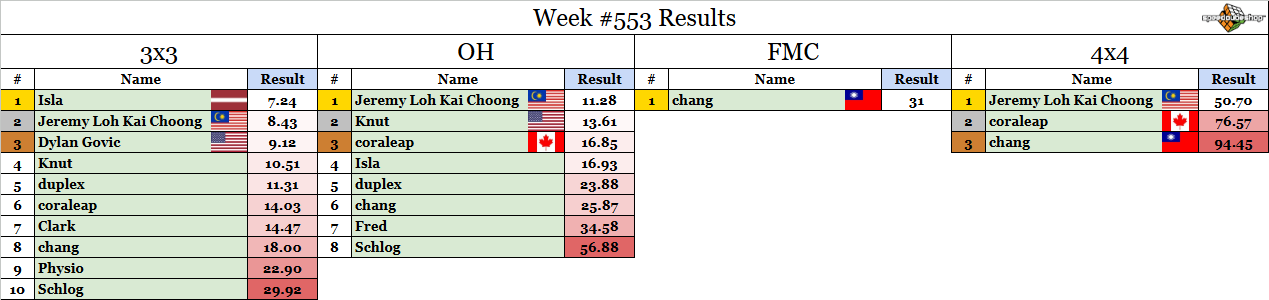
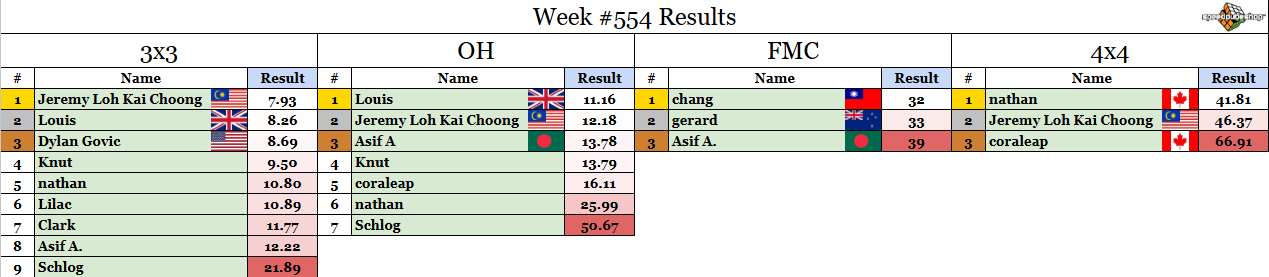
weekly comp update

Changed region(s): [[0.0, 0.0, 1.0, 1.0]]

diff --git a/src/weeklycomp/post.md b/src/weeklycomp/post.md
@@ -3,7 +3,7 @@
  This weekly competition is proudly sponsored by SpeedCubeShop.com 
  One competitor will be selected at random to receive a $5 SCS gift card! 
  
- Congrats to last week's winner by a random draw: **Schlog**. DM me for the prize. 
+ Congrats to last week's winner by a random draw: **Jeremy Loh Kai Choong**. DM me for the prize. 
  
  Check whether or not you participated this week yet at [https://bit.ly/RMSWeeklyCompSummary](https://bit.ly/RMSWeeklyCompSummary)  
  
@@ -17,28 +17,31 @@
  7. The comp runs until Sunday 5pm Eastern time (more or less). Enter your times using the forms links below. 
  
 ### 3x3: [Submission Form](https://forms.gle/H5xoCWvGKnZ92fQt8) 
- 1. D' U2 F2 R2 D2 F2 L' D2 R2 D' F' R' F' U2 R2 F D2 
- 2. L2 B D2 F U2 B2 D2 B R2 F' D2 F R' D L F R' D' U2 L' B 
- 3. R2 B U2 L B' L U L F2 R2 D' B2 U' F2 L2 U2 D R2 L 
- 4. L2 B D2 B' D2 B U2 R2 B' R2 F2 R' U L D' L2 B2 F R B U 
- 5. B' L2 D2 F' R L U2 D L' D2 F' U2 R2 U2 L2 B D2 B R2 B' U2 
+ 1. U' L' F R2 U2 D' R F R2 U2 D2 B' D2 F D2 B2 L2 F U' F2 
+ 2. R D2 R D2 L' B2 U2 R B2 R D B' F2 R D2 U F R' B' R 
+ 3. D2 R' F L2 U2 L2 D2 R2 F U2 B' D2 B' R U' L' R B2 F' U' B2 
+ 4. F U' F2 D' R2 D U2 R2 D2 R2 U' B2 U2 F' D2 L' U R B D' 
+ 5. F R' F L U B' R L2 D2 F2 D2 F' R2 U2 F R2 F' U2 F2 
  
 ### OH: [Submission Form](https://forms.gle/UgRLW3K1d5KkMGfM9) 
- 1. L2 U2 L D2 L' F2 R' D2 R' B2 D2 L2 B D R' F2 U' B' U B F 
- 2. U' D' B R2 L' U' F' L2 U F2 D2 L2 U2 L2 F L2 U2 B' D2 R2 
- 3. B2 D2 U2 F' U2 F' R2 D2 F' L' B' F U L B' U2 L F2 
- 4. U' R2 B2 U2 B2 U' L2 D F2 R2 D L2 F D' U' L2 B R' U L' R2 
- 5. D2 L' B' U R2 D2 R B2 U R2 L2 U2 F2 R2 D2 B L2 U2 B L2 
+ 1. R2 B2 D2 F2 D' F2 L2 D' U' B2 U2 F' L U2 R' D R2 F2 D' F2 L' 
+ 2. R U2 B2 D' B2 F2 D B2 F2 R2 U2 L R' B' L' B D2 B' R2 U2 
+ 3. F' B' R U' F' L B R' L2 F' U' R2 F2 D2 R2 D R2 F2 D' B2 D' 
+ 4. B D2 L2 F2 R2 F' R2 B L2 F2 U F' R' F2 U B' U' R2 U' 
+ 5. U' R U R2 D2 F' D B R2 B2 U2 B' L2 D2 F' L2 D2 F R' B 
  
 ### FMC: [Submission Form](https://forms.gle/1P9VUgZmA1pibwvL9) 
- 1. R' U' F L F2 L2 D' R2 D' F2 D' B2 U' F2 U R' U R' U B' U2 L' D2 R' U' F 
+ 1. R' U' F B D' B2 L' F2 L2 D' L' U2 F2 U2 B' D2 L2 F' U2 L2 F U2 B' U' R' U' F 
  
 ### 4x4: [Submission Form](https://forms.gle/bHNjncvEcPvFWBP2A) 
- 1. U2 D' F2 R B D2 L F2 D' F2 L2 D B2 R2 B2 U D2 F' R Uw2 Rw2 F' Fw2 Uw2 F D2 F2 D Rw2 F D' R U2 Rw F' L U Fw2 Uw' R F L2 Uw B2 
- 2. U2 F2 D2 B2 R2 F R2 D2 F R L2 B L2 D2 L U F' B' Uw2 Fw2 R Fw2 D' L' F2 R2 D Uw2 Rw2 F D L2 Fw' U' Uw' R B Uw Fw D R B 
- 3. D F' B' R' L' B2 U B U2 B2 L' U2 B2 L' D2 B2 L D2 R2 Rw2 Uw2 R' D Fw2 U2 L Uw2 R2 F2 R U' L' Fw R2 U' F2 D2 Uw Rw2 Uw2 F Fw' U' Uw' F2 
- 4. F' U2 D F2 D2 B2 R2 U2 F2 U' B2 L' D' B2 R' L2 F2 U2 B' D2 Fw2 Uw2 L' U D2 Fw2 Uw2 L' Rw2 U Uw2 R' Fw' R2 Fw' L F' L Uw B Rw2 Fw' D Uw' B 
- 5. F2 D' R2 L2 D B2 R2 D' L2 F D' F2 D B R' F2 B' L' Uw2 Fw2 D B2 Rw2 Fw2 R' B2 L U2 Fw2 L' Fw' Rw2 B2 L F' R' Fw L2 Uw Rw' F2 R Rw2 
+ 1. U' L2 B' U2 B' L2 F' U2 F2 L2 U2 F2 R' F' B2 R2 D B' R' D2 Uw2 Rw2 D' Rw2 Fw2 D Uw2 R U' Rw2 F D2 Fw' D2 R Uw B2 U' L Uw2 Rw' D2 R 
+ 2. B' L' D' L U B' U2 B2 L U2 L2 B' L2 F D2 F' U2 B' U2 B Uw2 Fw2 D Uw2 B' D2 B2 L2 Fw2 D' F Fw2 Rw' D R' Rw2 F2 Uw' R2 Uw Rw' F2 Fw D 
+ 3. F' L F2 D B' U' R2 B' R L' B2 R D2 R U2 L' D2 F2 U2 L' B Fw2 D2 R' Rw2 Fw2 Rw2 B Uw2 R' B D2 R' F Uw B Rw2 B' L D' Fw' Rw' B2 Rw2 F2 Fw 
+ 4. F' U R2 D2 R2 D2 F U2 F2 R2 B L2 F' L2 U' B D B2 R' L' U2 Uw2 Rw2 F2 R Uw2 F R' Rw2 B' R2 F L Uw' F' U F2 L Uw2 Rw B' Uw' Rw' Uw2 L Rw2 
+ 5. D F2 B' R2 D2 R' F2 U2 L D2 R' U' D2 L' D F B' D R' U' Rw2 U' R2 L' Rw2 U Uw2 R' U2 L2 U Rw2 Fw R2 Uw2 F' U' Uw2 Rw' B' Uw' B2 L Uw2 
  
 ### Winning FMC solutions from last week: 
- 1. chang, 31 moves: [SOLUTION](https://bit.ly/43hMoXm)
+ 1. chang, 32 moves: [SOLUTION](http://bit.ly/478hzXA) 
+ 2. gerard, 33 moves: [SOLUTION](http://bit.ly/3L6xD3y) 
+ 3. Asif A., 39 moves: [SOLUTION](http://bit.ly/4o7sJ4G) 
+ 
